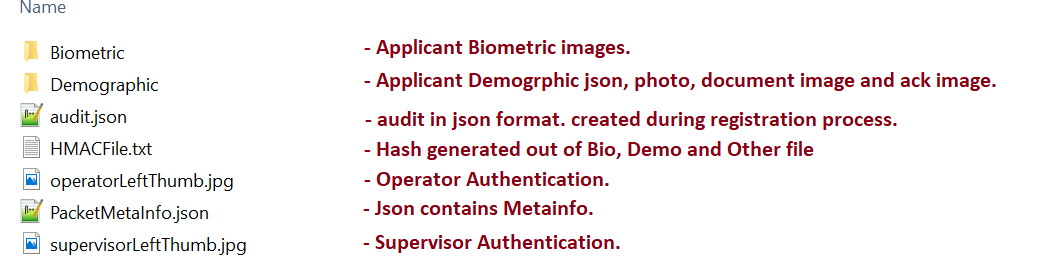
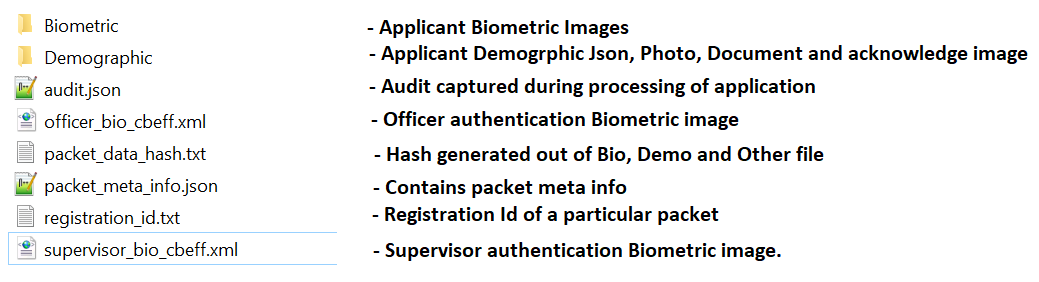
flow updated

diff --git a/Registration-Packet.md b/Registration-Packet.md
@@ -44,9 +44,9 @@ This document describes the following aspects
 2.  **Demographic**
 
     - Applicant
-        *  ProofOfIdentity.pdf
-        *  ProofOfResidenty.pdf
-        *  ProofOfAddress1.pdf
+        *  ProofOfIdentity.jpg
+        *  ProofOfResidenty.jpg
+        *  ProofOfAddress1.jpg
         *  ApplicantPhoto.jpg
         *  ExceptionPhoto.jpg \[If Exceptional cases\]
         *  Registration Acknowledgement.jpg
@@ -56,6 +56,7 @@ This document describes the following aspects
 	
 3.  **RegistrationID.txt**
 -   It contains the generated Registration id which is having the length of 28 digit.
+    [Eg: 0001782130002201811011002010]
 
 4.  **packet_data_hash.txt**
 
@@ -76,6 +77,7 @@ This document describes the following aspects
 
 **Packet encryption procedure**
 
+	Packet Creation flow:
     ![Packet Creation](_images/registration/packet-creation-flow.png)
 
 -   Session Key Encryption:
